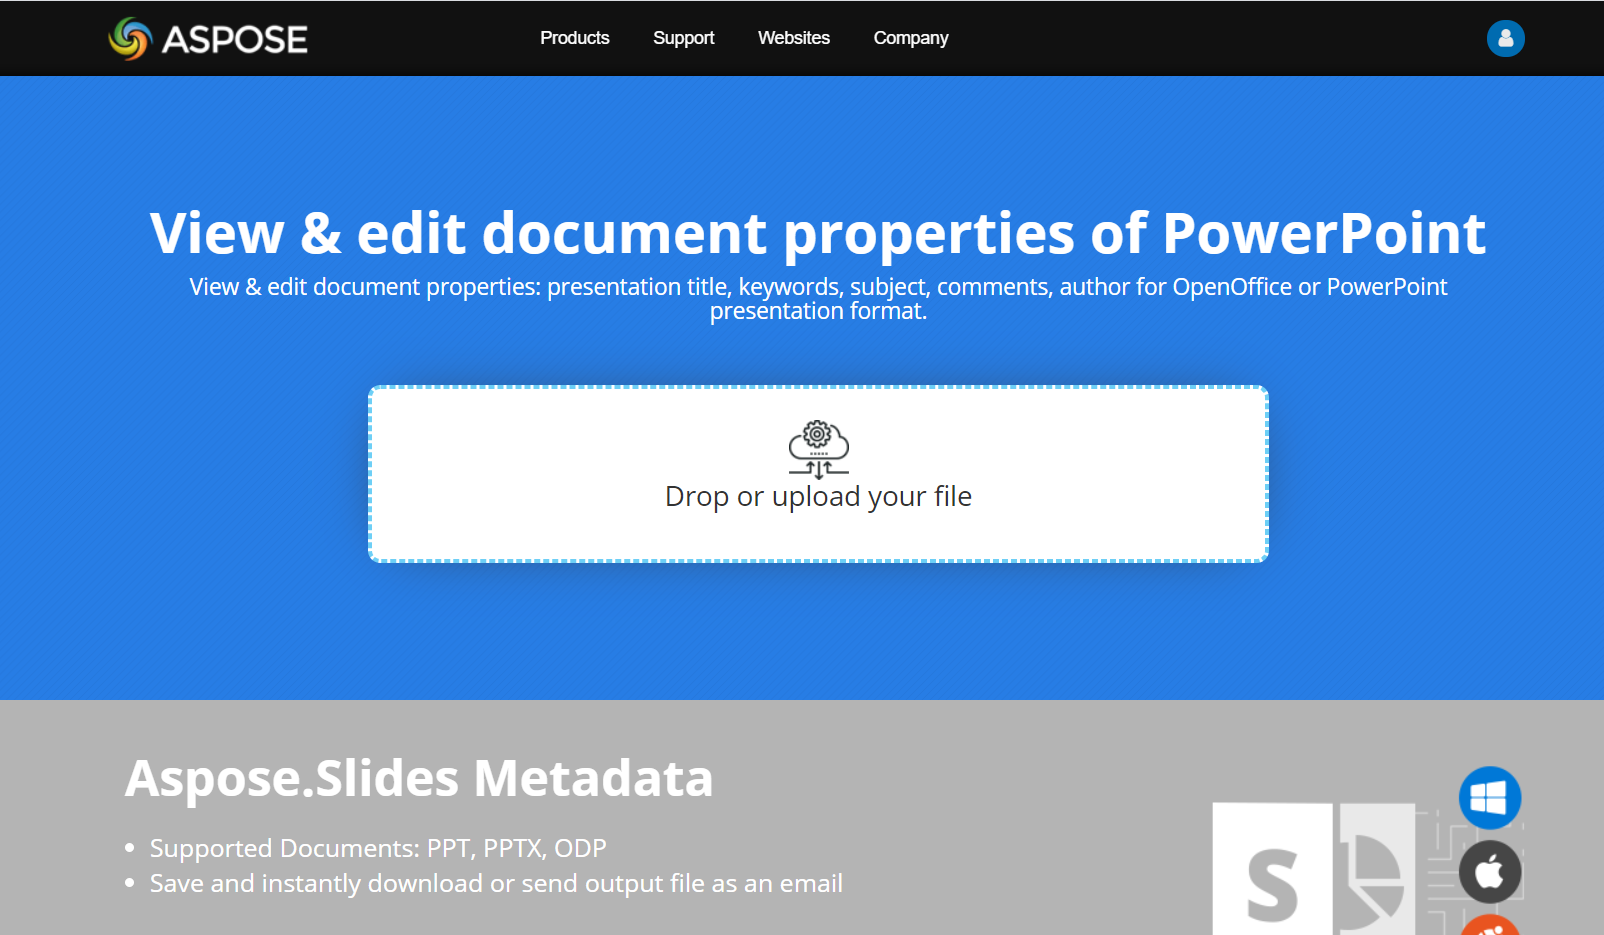
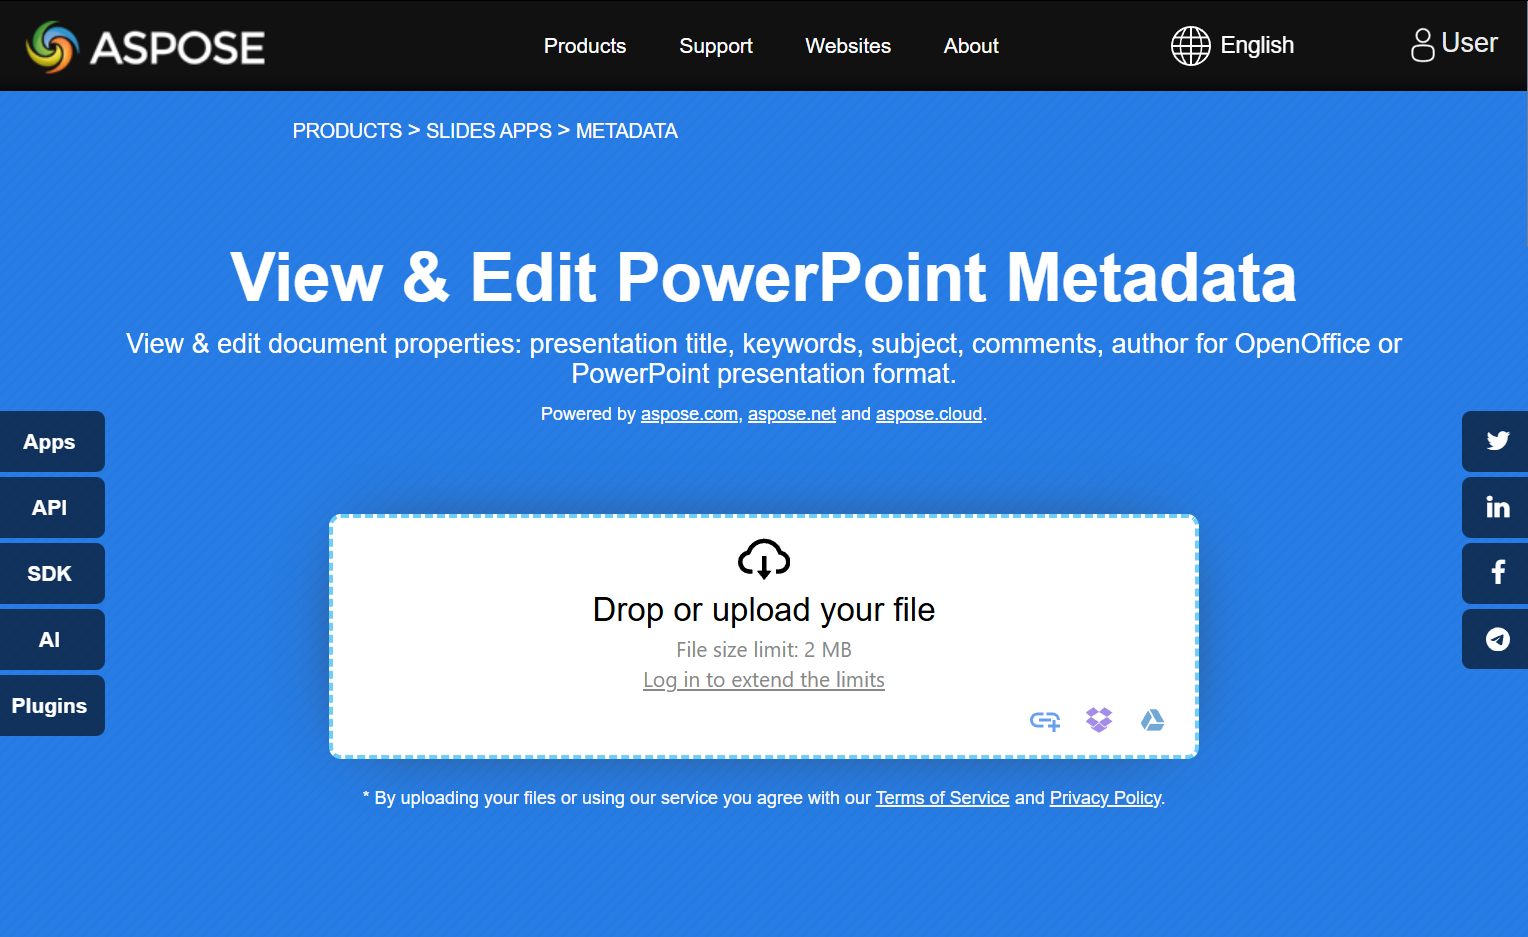
SLIDESDOC-561 Improve CTR for the article "Presentation Properties"
Updated the title, keywords, description, text, code examples, and image.
Added a "FAQs" section.

diff --git a/en/net/developer-guide/presentation-properties/_index.md b/en/net/developer-guide/presentation-properties/_index.md
@@ -1,5 +1,5 @@
 ---
-title: Presentation Properties
+title: Manage PowerPoint Presentation Properties in C#
 linktitle: Presentation Properties
 type: docs
 weight: 70
@@ -11,107 +11,165 @@ keywords:
 - built-in properties
 - custom properties
 - advanced properties
+- access properties
 - modify properties
+- manage properties
 - document metadata
 - edit metadata
+- proofing language
 - PowerPoint
 - presentation
 - C#
 - Csharp
 - Aspose.Slides for .NET
-description: "Manage PowerPoint presentation properties in C# or .NET"
+description: "Learn how to easily manage, read, and edit PowerPoint document properties using Aspose.Slides for .NET in C#. Enhance productivity and automate your workflow!"
 ---
 
-## **About Presentation Properties**
+## **Overview**
 
-As we have described earlier that Aspose.Slides for .NET supports two kinds of document properties, which are **Built-in** and **Custom** properties. So, developers can access both kinds of properties with the use of Aspose.Slides for .NET API. Aspose.Slides for .NET provides a class [IDocumentProperties](https://reference.aspose.com/slides/net/aspose.slides/idocumentproperties) that represents the document properties associated with a presentation file through [Presentation.DocumentProperties](https://reference.aspose.com/slides/net/aspose.slides/documentproperties/properties/index) property. Developers can use [IDocumentProperties](https://reference.aspose.com/slides/net/aspose.slides/idocumentproperties) property exposed by **Presentation** object to access the document properties of the presentation files as described below:
+Aspose.Slides for .NET supports two types of document properties: **Built-in** and **Custom**. Both of these property types can easily be accessed and managed using the Aspose.Slides for .NET API.
+
+To handle document properties, Aspose.Slides provides the [IDocumentProperties](https://reference.aspose.com/slides/net/aspose.slides/idocumentproperties/) interface, accessible through the [Presentation.DocumentProperties](https://reference.aspose.com/slides/net/aspose.slides/presentation/documentproperties/) property. Developers can leverage the `Presentation` object's [IDocumentProperties](https://reference.aspose.com/slides/net/aspose.slides/idocumentproperties/) interface to seamlessly read, modify, and manage presentation properties, as shown in the examples below.
 
 {{% alert color="primary" %}} 
 
-Please note that you cannot set values against the **Application** and **Producer** fields, because Aspose Ltd. and Aspose.Slides for .NET x.x.x will be displayed against these fields.
+Please note that the **Application** and **Producer** fields cannot be modified, as these fields will always display "Aspose Ltd." and "Aspose.Slides for .NET x.x.x".
 
 {{% /alert %}} 
 
 ## **Manage Presentation Properties**
 
-Microsoft PowerPoint provides a feature to add some properties to the presentation files. These document properties allow some useful information to be stored along with the documents (presentation files). There are two kinds of document properties as follows
+Microsoft PowerPoint provides a feature for adding properties to presentation files. These document properties allow useful information to be stored along with the files. There are two types of document properties:
 
-- System Defined (Built-in) Properties
-- User Defined (Custom) Properties
+- System-defined (built-in) properties
+- User-defined (custom) properties
 
-**Built-in** properties contain general information about the document like document title, author's name, document statistics and so on. **Custom** properties are those ones, which are defined by the users as **Name/Value** pairs, where both name and value are defined by the user. Using Aspose.Slides for .NET, developers can access and modify the values of built-in properties as well as custom properties. Microsoft PowerPoint 2007 allows managing the document properties of the presentation files. All you have to do is to click the Office icon and further **Prepare | Properties | Advanced Properties** menu item of the Microsoft PowerPoint 2007. After you select **Advanced Properties** menu item, a dialog would appear allowing you to manage the document properties of the PowerPoint file. In the **Properties Dialog**, you can see that there are many tab pages like **General, Summary, Statistics, Contents and Custom**. All these tab pages allow configuring different kinds of information related to the PowerPoint files. **Custom** tab is used to manage the custom properties of the PowerPoint files.
+**Built-in** properties contain general information about the document, such as the document title, author's name, document statistics, and more.
+
+**Custom** properties are defined by users as **Name/Value** pairs, where both the name and the value are user-specified.
+
+Using Aspose.Slides for .NET, developers can access and modify both built-in and custom properties.
+
+Microsoft PowerPoint allows users to manage document properties by clicking the Office icon, then selecting **File → Info → Properties**. After choosing **Advanced Properties**, a dialog appears where you can manage all document properties of the presentation file.
+
+In the **Properties** dialog, there are several tabs, such as **General**, **Summary**, **Statistics**, **Contents**, and **Custom**.
+Each tab provides options for configuring specific types of information related to the PowerPoint file. The **Custom** tab is used to manage user-defined properties.
+
 ## **Access Built-in Properties**
-These properties as exposed by **IDocumentProperties** object include: **Creator(Author)**, **Description**, **Keywords** **Created** (Creation Date), **Modified** Modification Date, **Printed** Last Print Date, **LastModifiedBy**, **Keywords**, **SharedDoc** (Is shared between different producers?), **PresentationFormat**, **Subject** and **Title**
 
-{{< gist "aspose-slides" "53249e5573d2cd6e66f91f708e8fe008" "Examples-CSharp-Presentations-Properties-AccessBuiltinProperties-AccessBuiltinProperties.cs" >}}
+These properties, as exposed by the [IDocumentProperties](https://reference.aspose.com/slides/net/aspose.slides/idocumentproperties/) interface, include: **Creator** (Author), **Description**, **Keywords**, **Created** (Creation Date), **Modified** (Modification Date), **Printed** (Last Print Date), **LastModifiedBy**, **SharedDoc** (indicates whether the document is shared between different producers), **PresentationFormat**, **Subject**,  **Title**, and more.
+
+```cs
+// Instantiate the Presentation class that represents a presentation file.
+using Presentation presentation = new Presentation("AccessBuiltInProperties.pptx");
+
+// Get a reference to the object of type IDocumentProperties associated with the presentation.
+IDocumentProperties documentProperties = presentation.DocumentProperties;
+
+// Display the Built-in properties.
+Console.WriteLine("Category : " + documentProperties.Category);
+Console.WriteLine("Content status : " + documentProperties.ContentStatus);
+Console.WriteLine("Creation date : " + documentProperties.CreatedTime);
+Console.WriteLine("Author : " + documentProperties.Author);
+Console.WriteLine("Comments : " + documentProperties.Comments);
+Console.WriteLine("Key words : " + documentProperties.Keywords);
+Console.WriteLine("Last modified by : " + documentProperties.LastSavedBy);
+Console.WriteLine("Manager : " + documentProperties.Manager);
+Console.WriteLine("Modified date : " + documentProperties.LastSavedTime);
+Console.WriteLine("Presentation format : " + documentProperties.PresentationFormat);
+Console.WriteLine("Last print date : " + documentProperties.LastPrinted);
+Console.WriteLine("Is shared between producers : " + documentProperties.SharedDoc);
+Console.WriteLine("Subject : " + documentProperties.Subject);
+Console.WriteLine("Title : " + documentProperties.Title);
+```
 
 ## **Modify Built-in Properties**
 
-Modifying the built-in properties of presentation files is as easy as that of accessing them. You can simply assign a string value to any desired property and the property value would be modified. In the example given below, we have demonstrated that how we can modify the built-in document properties of the presentation file.
+Modifying the built-in properties of presentation files is just as easy as accessing them. You can simply assign a string value to any desired property, and the property's value will be updated. In the example below, we demonstrate how to modify the built-in document properties of a presentation file.
 
-{{< gist "aspose-slides" "53249e5573d2cd6e66f91f708e8fe008" "Examples-CSharp-Presentations-Properties-ModifyBuiltinProperties-ModifyBuiltinProperties.cs" >}}
+```cs
+// Instantiate the Presentation class that represents the a presentation file.
+using Presentation presentation = new Presentation("ModifyBuiltInProperties.pptx");
+
+// Get a reference to the object of type IDocumentProperties associated with the presentation.
+IDocumentProperties documentProperties = presentation.DocumentProperties;
+
+// Set the Built-in properties.
+documentProperties.Author = "Aspose.Slides for .NET";
+documentProperties.Title = "Manage PowerPoint Presentation Properties";
+documentProperties.Subject = "Modify Built-in Properties";
+documentProperties.Comments = "Aspose description";
+documentProperties.Manager = "Aspose manager";
+
+// Save the presentation to a file.
+presentation.Save("DocumentProperties_output.pptx", SaveFormat.Pptx);
+```
 
 ## **Add Custom Presentation Properties**
 
-Aspose.Slides for .NET also allows developers to add the custom the values for presentation Document properties. An example is given below that shows how to set the custom properties for a presentation.
+Custom presentation properties enable developers to store additional metadata or specific information within a presentation file. Aspose.Slides makes it easy to create and manage these custom properties programmatically. The following examples demonstrate how to add custom properties to your presentations.
 
-{{< gist "aspose-slides" "53249e5573d2cd6e66f91f708e8fe008" "Examples-CSharp-Presentations-Properties-AddCustomDocumentProperties-AddCustomDocumentProperties.cs" >}}
+```cs
+// Instantiate the Presentation class.
+using Presentation presentation = new Presentation();
+
+// Get a reference to the object of type IDocumentProperties associated with the presentation.
+IDocumentProperties documentProperties = presentation.DocumentProperties;
+
+// Add custom properties.
+documentProperties["Reviewed by"] = "John Smith";
+documentProperties["Confidentiality level"] = "Internal";
+documentProperties["Document version"] = 2;
+
+// Save the presentation to a file.
+presentation.Save("CustomDocumentProperties_output.pptx", SaveFormat.Pptx);
+```
 
 ## **Access and Modify Custom Properties**
 
-Aspose.Slides for .NET also allows developers to access the values of custom properties. An example is given below that shows how can you access and modify all of these custom properties for a presentation.
+Aspose.Slides also allows developers to access existing custom properties and modify their values easily. This functionality helps maintain accurate metadata and supports dynamic updates based on user input or business logic. The examples below illustrate how to retrieve and update custom property values within a presentation.
 
-{{< gist "aspose-slides" "53249e5573d2cd6e66f91f708e8fe008" "Examples-CSharp-Presentations-Properties-AccessModifyingProperties-AccessModifyingProperties.cs" >}}
+```cs
+// Instantiate the Presentation class that represents a PPTX file.
+using Presentation presentation = new Presentation("AccessAndModifyProperties.pptx");
 
-## **Set Proofing Language**
+// Get a reference to the object of type IDocumentProperties associated with the presentation.
+IDocumentProperties documentProperties = presentation.DocumentProperties;
 
-Aspose.Slides provides the [LanguageId](https://reference.aspose.com/slides/net/aspose.slides/baseportionformat/languageid/) property (exposed by the [PortionFormat](https://reference.aspose.com/slides/net/aspose.slides/portionformat/) class) to allow you to set the proofing language for a PowerPoint document. The proofing language is the language for which spellings and grammar in the PowerPoint are checked.
-
-This C# code shows you how to set the proofing language for a PowerPoint:
-
-```c#
-using (Presentation pres = new Presentation(pptxFileName))
+// Access and modify the custom properties.
+for (int i = 0; i < documentProperties.CountOfCustomProperties; i++)
 {
-    AutoShape autoShape = (AutoShape)pres.Slides[0].Shapes[0];
+    string propertyName = documentProperties.GetCustomPropertyName(i);
+    object propertyValue = documentProperties[propertyName];
 
-    IParagraph paragraph = autoShape.TextFrame.Paragraphs[0];
-    paragraph.Portions.Clear();
+    // Display the name and value of the custom property.
+    Console.WriteLine("Custom property name : " + propertyName);
+    Console.WriteLine("Custom property value : " + propertyValue);
 
-    Portion newPortion = new Portion();
-
-    IFontData font = new FontData("SimSun");
-    IPortionFormat portionFormat = newPortion.PortionFormat;
-    portionFormat.ComplexScriptFont = font;
-    portionFormat.EastAsianFont = font;
-    portionFormat.LatinFont = font;
-
-    portionFormat.LanguageId = "zh-CN"; // set the Id of a proofing language
-    
-    newPortion.Text = "1。";
-    paragraph.Portions.Add(newPortion);
+    // Modify the value of the custom property.
+    documentProperties[propertyName] = "New Value " + (i + 1);
 }
-```
 
-## **Set Default Language**
-
-This C# code shows you how to set the default language for an entire PowerPoint presentation: 
-
-```c#
-LoadOptions loadOptions = new LoadOptions();
-loadOptions.DefaultTextLanguage = "en-US";
-using (Presentation pres = new Presentation(loadOptions))
-{
-    // Adds a new rectangle shape with text
-    IAutoShape shp = pres.Slides[0].Shapes.AddAutoShape(ShapeType.Rectangle, 50, 50, 150, 50);
-    shp.TextFrame.Text = "New Text";
-    
-    // Checks the first portion language
-    Console.WriteLine(shp.TextFrame.Paragraphs[0].Portions[0].PortionFormat.LanguageId);
-}
+// Save the presentation to a file.
+presentation.Save("CustomProperties_output.pptx", SaveFormat.Pptx);
 ```
 
 ## **Live Example**
 
-Try [**Aspose.Slides Metadata**](https://products.aspose.app/slides/metadata) online app to see how to work with document properties via Aspose.Slides API:
+Try the [**View & Edit PowerPoint Metadata**](https://products.aspose.app/slides/metadata) online app to see how to work with document properties using the Aspose.Slides API:
 
 [![View & Edit PowerPoint Metadata](slides-metadata.png)](https://products.aspose.app/slides/metadata)
+
+## ***FAQs**
+
+**How can I remove a built-in property from a presentation?**
+
+Built-in properties are an integral part of the presentation and cannot be removed entirely. However, you can either change their values or set them to empty if allowed by the specific property.
+
+**What happens if I add a custom property that already exists?**
+
+If you add a custom property that already exists, its existing value will be overwritten with the new one. You do not need to remove or check the property beforehand, as Aspose.Slides automatically updates the property's value.
+
+**Can I access presentation properties without fully loading the presentation?**
+
+Yes, you can access presentation properties without fully loading the presentation by using the `GetPresentationInfo` method from the [PresentationFactory](https://reference.aspose.com/slides/net/aspose.slides/presentationfactory/) class. Then, utilize the `ReadDocumentProperties` method provided by the [IPresentationInfo](https://reference.aspose.com/slides/net/aspose.slides/ipresentationinfo/) interface to read the properties efficiently, saving memory and improving performance.
